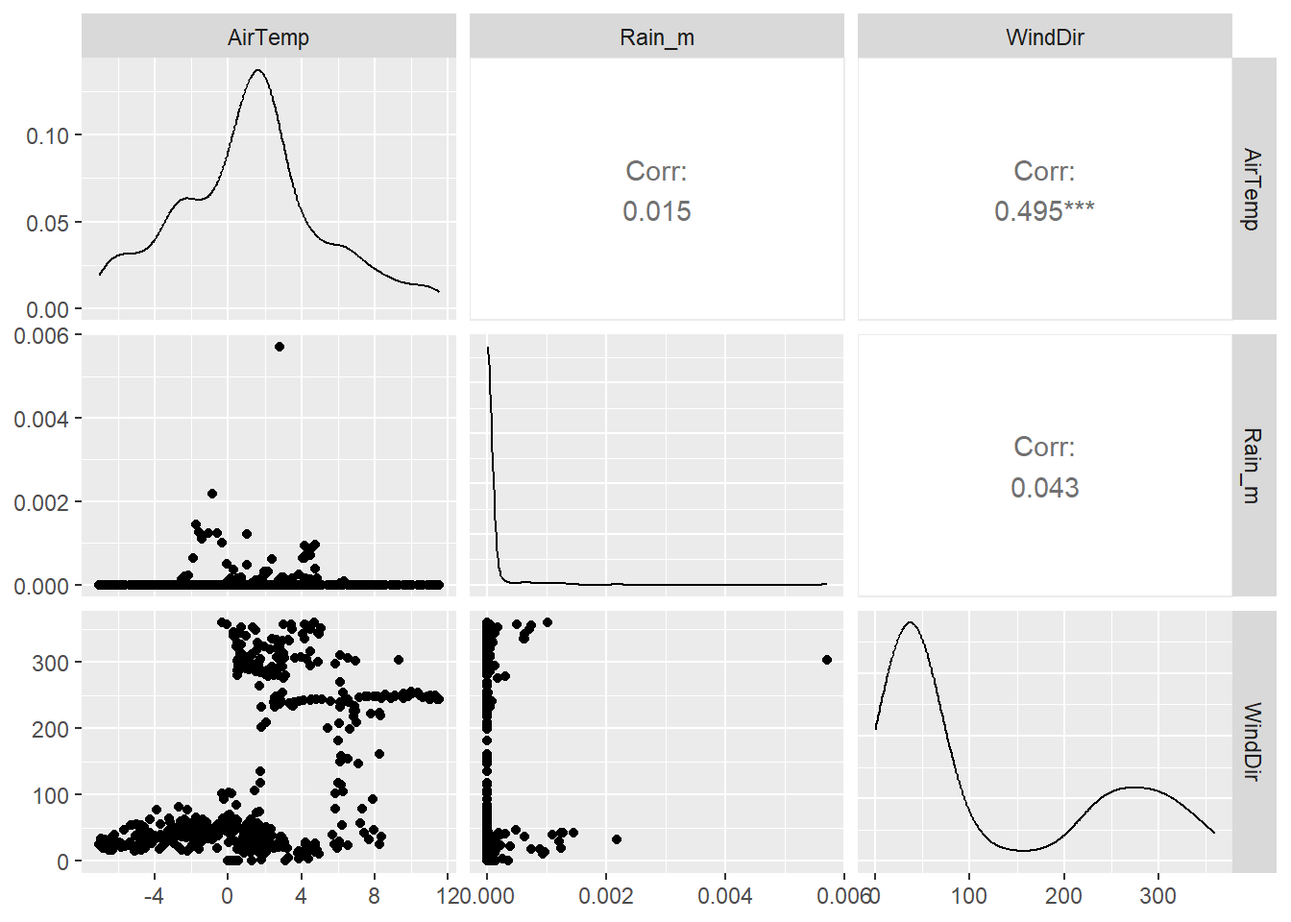
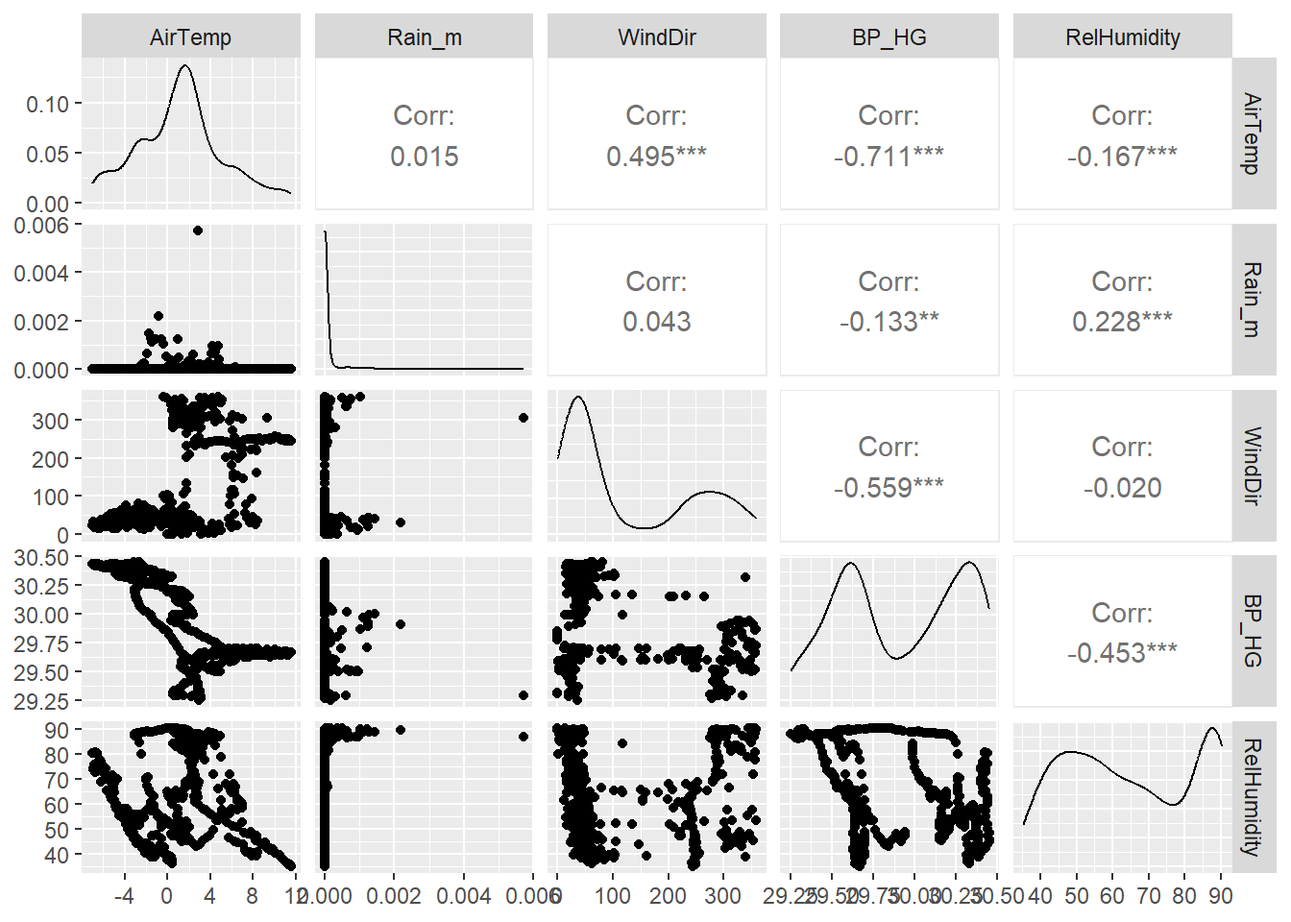
1 hw commit

diff --git a/docs/Markdown/Barnett_Correlation.html b/docs/Markdown/Barnett_Correlation.html
@@ -98,95 +98,30 @@ pre > code.sourceCode > span > a:first-child::before { text-decoration: underlin
 
 <section id="question-1" class="level2">
 <h2 class="anchored" data-anchor-id="question-1">Question 1</h2>
+<p>Look up the library GGally; it has a function named ggpairs(). Use that function to plot the atmospheric data from the Rice Rivers Center for the samples collected from 10 February to 15 February.</p>
 <div class="cell">
-<div class="sourceCode cell-code" id="cb1"><pre class="sourceCode r code-with-copy"><code class="sourceCode r"><span id="cb1-1"><a href="#cb1-1" aria-hidden="true" tabindex="-1"></a><span class="fu">library</span>(tidyverse)</span></code><button title="Copy to Clipboard" class="code-copy-button"><i class="bi"></i></button></pre></div>
-<div class="cell-output cell-output-stderr">
-<pre><code>Warning: package 'ggplot2' was built under R version 4.3.3</code></pre>
-</div>
-<div class="cell-output cell-output-stderr">
-<pre><code>Warning: package 'tidyr' was built under R version 4.3.3</code></pre>
-</div>
-<div class="cell-output cell-output-stderr">
-<pre><code>Warning: package 'readr' was built under R version 4.3.3</code></pre>
-</div>
-<div class="cell-output cell-output-stderr">
-<pre><code>Warning: package 'dplyr' was built under R version 4.3.3</code></pre>
-</div>
-<div class="cell-output cell-output-stderr">
-<pre><code>Warning: package 'stringr' was built under R version 4.3.3</code></pre>
-</div>
-<div class="cell-output cell-output-stderr">
-<pre><code>Warning: package 'forcats' was built under R version 4.3.3</code></pre>
-</div>
-<div class="cell-output cell-output-stderr">
-<pre><code>Warning: package 'lubridate' was built under R version 4.3.3</code></pre>
-</div>
-<div class="cell-output cell-output-stderr">
-<pre><code>── Attaching core tidyverse packages ──────────────────────── tidyverse 2.0.0 ──
-✔ dplyr     1.1.4     ✔ readr     2.1.5
-✔ forcats   1.0.0     ✔ stringr   1.5.1
-✔ ggplot2   3.5.1     ✔ tibble    3.2.1
-✔ lubridate 1.9.3     ✔ tidyr     1.3.1
-✔ purrr     1.0.2     
-── Conflicts ────────────────────────────────────────── tidyverse_conflicts() ──
-✖ dplyr::filter() masks stats::filter()
-✖ dplyr::lag()    masks stats::lag()
-ℹ Use the conflicted package (&lt;http://conflicted.r-lib.org/&gt;) to force all conflicts to become errors</code></pre>
-</div>
-<div class="sourceCode cell-code" id="cb10"><pre class="sourceCode r code-with-copy"><code class="sourceCode r"><span id="cb10-1"><a href="#cb10-1" aria-hidden="true" tabindex="-1"></a><span class="fu">library</span>(ggplot2)</span>
-<span id="cb10-2"><a href="#cb10-2" aria-hidden="true" tabindex="-1"></a></span>
-<span id="cb10-3"><a href="#cb10-3" aria-hidden="true" tabindex="-1"></a><span class="fu">library</span>(GGally)</span></code><button title="Copy to Clipboard" class="code-copy-button"><i class="bi"></i></button></pre></div>
-<div class="cell-output cell-output-stderr">
-<pre><code>Warning: package 'GGally' was built under R version 4.3.3</code></pre>
-</div>
-<div class="cell-output cell-output-stderr">
-<pre><code>Registered S3 method overwritten by 'GGally':
-  method from   
-  +.gg   ggplot2</code></pre>
-</div>
-<div class="sourceCode cell-code" id="cb13"><pre class="sourceCode r code-with-copy"><code class="sourceCode r"><span id="cb13-1"><a href="#cb13-1" aria-hidden="true" tabindex="-1"></a><span class="fu">library</span>(lubridate)</span>
-<span id="cb13-2"><a href="#cb13-2" aria-hidden="true" tabindex="-1"></a></span>
-<span id="cb13-3"><a href="#cb13-3" aria-hidden="true" tabindex="-1"></a><span class="fu">source</span>(<span class="st">"get_rice_data.R"</span>)</span>
-<span id="cb13-4"><a href="#cb13-4" aria-hidden="true" tabindex="-1"></a></span>
-<span id="cb13-5"><a href="#cb13-5" aria-hidden="true" tabindex="-1"></a>data <span class="ot">&lt;-</span> <span class="fu">getRiceData</span>()</span></code><button title="Copy to Clipboard" class="code-copy-button"><i class="bi"></i></button></pre></div>
-<div class="cell-output cell-output-stderr">
-<pre><code>Warning: package 'knitr' was built under R version 4.3.3</code></pre>
-</div>
-<div class="cell-output cell-output-stderr">
-<pre><code>Warning: package 'kableExtra' was built under R version 4.3.3</code></pre>
-</div>
-<div class="cell-output cell-output-stderr">
-<pre><code>
-Attaching package: 'kableExtra'
-
-The following object is masked from 'package:dplyr':
-
-    group_rows
-
-Rows: 8199 Columns: 23── Column specification ────────────────────────────────────────────────────────
-Delimiter: ","
-chr  (1): DateTime
-dbl (22): RecordID, PAR, WindSpeed_mph, WindDir, AirTempF, RelHumidity, BP_H...
-ℹ Use `spec()` to retrieve the full column specification for this data.
-ℹ Specify the column types or set `show_col_types = FALSE` to quiet this message.</code></pre>
-</div>
+<div class="sourceCode cell-code" id="cb1"><pre class="sourceCode r code-with-copy"><code class="sourceCode r"><span id="cb1-1"><a href="#cb1-1" aria-hidden="true" tabindex="-1"></a><span class="fu">library</span>(tidyverse)</span>
+<span id="cb1-2"><a href="#cb1-2" aria-hidden="true" tabindex="-1"></a></span>
+<span id="cb1-3"><a href="#cb1-3" aria-hidden="true" tabindex="-1"></a><span class="fu">library</span>(ggplot2)</span>
+<span id="cb1-4"><a href="#cb1-4" aria-hidden="true" tabindex="-1"></a></span>
+<span id="cb1-5"><a href="#cb1-5" aria-hidden="true" tabindex="-1"></a><span class="fu">library</span>(GGally)</span>
+<span id="cb1-6"><a href="#cb1-6" aria-hidden="true" tabindex="-1"></a></span>
+<span id="cb1-7"><a href="#cb1-7" aria-hidden="true" tabindex="-1"></a><span class="fu">library</span>(lubridate)</span>
+<span id="cb1-8"><a href="#cb1-8" aria-hidden="true" tabindex="-1"></a></span>
+<span id="cb1-9"><a href="#cb1-9" aria-hidden="true" tabindex="-1"></a><span class="fu">source</span>(<span class="st">"get_rice_data.R"</span>)</span>
+<span id="cb1-10"><a href="#cb1-10" aria-hidden="true" tabindex="-1"></a></span>
+<span id="cb1-11"><a href="#cb1-11" aria-hidden="true" tabindex="-1"></a>data <span class="ot">&lt;-</span> <span class="fu">getRiceData</span>()</span></code><button title="Copy to Clipboard" class="code-copy-button"><i class="bi"></i></button></pre></div>
 </div>
 <div class="cell">
-<div class="sourceCode cell-code" id="cb17"><pre class="sourceCode r code-with-copy"><code class="sourceCode r"><span id="cb17-1"><a href="#cb17-1" aria-hidden="true" tabindex="-1"></a><span class="co"># Convert Date column to datetime format</span></span>
-<span id="cb17-2"><a href="#cb17-2" aria-hidden="true" tabindex="-1"></a>data<span class="sc">$</span>Date <span class="ot">&lt;-</span> <span class="fu">ymd_hms</span>(data<span class="sc">$</span>Date)</span></code><button title="Copy to Clipboard" class="code-copy-button"><i class="bi"></i></button></pre></div>
-<div class="cell-output cell-output-stderr">
-<pre><code>Warning: 86 failed to parse.</code></pre>
-</div>
-<div class="sourceCode cell-code" id="cb19"><pre class="sourceCode r code-with-copy"><code class="sourceCode r"><span id="cb19-1"><a href="#cb19-1" aria-hidden="true" tabindex="-1"></a><span class="co"># Filter data between Feb 10-15 and select specific columns</span></span>
-<span id="cb19-2"><a href="#cb19-2" aria-hidden="true" tabindex="-1"></a>atmdf <span class="ot">&lt;-</span> data <span class="sc">|&gt;</span></span>
-<span id="cb19-3"><a href="#cb19-3" aria-hidden="true" tabindex="-1"></a>  <span class="fu">filter</span>(<span class="fu">month</span>(Date) <span class="sc">==</span> <span class="dv">2</span> <span class="sc">&amp;</span> <span class="fu">day</span>(Date) <span class="sc">&gt;=</span> <span class="dv">10</span> <span class="sc">&amp;</span> <span class="fu">day</span>(Date) <span class="sc">&lt;=</span> <span class="dv">15</span>) <span class="sc">|&gt;</span></span>
-<span id="cb19-4"><a href="#cb19-4" aria-hidden="true" tabindex="-1"></a>  <span class="fu">select</span>(AirTemp, Rain_m, WindDir)</span>
-<span id="cb19-5"><a href="#cb19-5" aria-hidden="true" tabindex="-1"></a></span>
-<span id="cb19-6"><a href="#cb19-6" aria-hidden="true" tabindex="-1"></a><span class="co"># Create ggpairs plot</span></span>
-<span id="cb19-7"><a href="#cb19-7" aria-hidden="true" tabindex="-1"></a><span class="fu">ggpairs</span>(</span>
-<span id="cb19-8"><a href="#cb19-8" aria-hidden="true" tabindex="-1"></a>  <span class="at">data =</span> atmdf,</span>
-<span id="cb19-9"><a href="#cb19-9" aria-hidden="true" tabindex="-1"></a>  <span class="at">columns =</span> <span class="dv">1</span><span class="sc">:</span><span class="fu">ncol</span>(atmdf)  <span class="co"># Select all columns from atmdf</span></span>
-<span id="cb19-10"><a href="#cb19-10" aria-hidden="true" tabindex="-1"></a>)</span></code><button title="Copy to Clipboard" class="code-copy-button"><i class="bi"></i></button></pre></div>
+<div class="sourceCode cell-code" id="cb2"><pre class="sourceCode r code-with-copy"><code class="sourceCode r"><span id="cb2-1"><a href="#cb2-1" aria-hidden="true" tabindex="-1"></a>data<span class="sc">$</span>Date <span class="ot">&lt;-</span> <span class="fu">ymd_hms</span>(data<span class="sc">$</span>Date)</span>
+<span id="cb2-2"><a href="#cb2-2" aria-hidden="true" tabindex="-1"></a></span>
+<span id="cb2-3"><a href="#cb2-3" aria-hidden="true" tabindex="-1"></a>atmdf <span class="ot">&lt;-</span> data <span class="sc">|&gt;</span></span>
+<span id="cb2-4"><a href="#cb2-4" aria-hidden="true" tabindex="-1"></a>  <span class="fu">filter</span>(<span class="fu">month</span>(Date) <span class="sc">==</span> <span class="dv">2</span> <span class="sc">&amp;</span> <span class="fu">day</span>(Date) <span class="sc">&gt;=</span> <span class="dv">10</span> <span class="sc">&amp;</span> <span class="fu">day</span>(Date) <span class="sc">&lt;=</span> <span class="dv">15</span>) <span class="sc">|&gt;</span></span>
+<span id="cb2-5"><a href="#cb2-5" aria-hidden="true" tabindex="-1"></a>  <span class="fu">select</span>(AirTemp, Rain_m, WindDir, BP_HG, RelHumidity)</span>
+<span id="cb2-6"><a href="#cb2-6" aria-hidden="true" tabindex="-1"></a></span>
+<span id="cb2-7"><a href="#cb2-7" aria-hidden="true" tabindex="-1"></a><span class="fu">ggpairs</span>(</span>
+<span id="cb2-8"><a href="#cb2-8" aria-hidden="true" tabindex="-1"></a>  <span class="at">data =</span> atmdf,</span>
+<span id="cb2-9"><a href="#cb2-9" aria-hidden="true" tabindex="-1"></a>  <span class="at">columns =</span> <span class="dv">1</span><span class="sc">:</span><span class="fu">ncol</span>(atmdf)) </span></code><button title="Copy to Clipboard" class="code-copy-button"><i class="bi"></i></button></pre></div>
 <div class="cell-output-display">
 <div>
 <figure class="figure">
@@ -194,17 +129,144 @@ dbl (22): RecordID, PAR, WindSpeed_mph, WindDir, AirTempF, RelHumidity, BP_H...
 </figure>
 </div>
 </div>
-<div class="sourceCode cell-code" id="cb20"><pre class="sourceCode r code-with-copy"><code class="sourceCode r"><span id="cb20-1"><a href="#cb20-1" aria-hidden="true" tabindex="-1"></a><span class="co"># Step 2: Plot Wind Direction over the Date-Time variable</span></span>
-<span id="cb20-2"><a href="#cb20-2" aria-hidden="true" tabindex="-1"></a><span class="co"># plot(atmdf$Date, df$Air_temperature, </span></span>
-<span id="cb20-3"><a href="#cb20-3" aria-hidden="true" tabindex="-1"></a><span class="co">#      type = "p",  # Line with points</span></span>
-<span id="cb20-4"><a href="#cb20-4" aria-hidden="true" tabindex="-1"></a><span class="co">#      xlab = "Date and Time", </span></span>
-<span id="cb20-5"><a href="#cb20-5" aria-hidden="true" tabindex="-1"></a><span class="co">#      ylab = "Air Temperature (C)", </span></span>
-<span id="cb20-6"><a href="#cb20-6" aria-hidden="true" tabindex="-1"></a><span class="co">#      main = "Air Temperature During February 10-15",</span></span>
-<span id="cb20-7"><a href="#cb20-7" aria-hidden="true" tabindex="-1"></a><span class="co">#      pch = 19)  # Points</span></span></code><button title="Copy to Clipboard" class="code-copy-button"><i class="bi"></i></button></pre></div>
 </div>
 </section>
 <section id="question-2" class="level2">
 <h2 class="anchored" data-anchor-id="question-2">Question 2</h2>
+<p>For those atmospheric data, which pair of variables has the strongest correlation? What is the 95% confidence interval on that correlation coefficient?</p>
+<div class="cell">
+<div class="sourceCode cell-code" id="cb3"><pre class="sourceCode r code-with-copy"><code class="sourceCode r"><span id="cb3-1"><a href="#cb3-1" aria-hidden="true" tabindex="-1"></a><span class="co"># Calculate correlation matrix for the variables in atmdf</span></span>
+<span id="cb3-2"><a href="#cb3-2" aria-hidden="true" tabindex="-1"></a>cor_matrix <span class="ot">&lt;-</span> <span class="fu">cor</span>(atmdf, <span class="at">use =</span> <span class="st">"complete.obs"</span>)</span>
+<span id="cb3-3"><a href="#cb3-3" aria-hidden="true" tabindex="-1"></a></span>
+<span id="cb3-4"><a href="#cb3-4" aria-hidden="true" tabindex="-1"></a><span class="co"># Convert the correlation matrix to a data frame for easier identification of the strongest correlation</span></span>
+<span id="cb3-5"><a href="#cb3-5" aria-hidden="true" tabindex="-1"></a><span class="fu">library</span>(dplyr)</span>
+<span id="cb3-6"><a href="#cb3-6" aria-hidden="true" tabindex="-1"></a>cor_df <span class="ot">&lt;-</span> <span class="fu">as.data.frame</span>(<span class="fu">as.table</span>(cor_matrix)) <span class="sc">%&gt;%</span></span>
+<span id="cb3-7"><a href="#cb3-7" aria-hidden="true" tabindex="-1"></a>  <span class="fu">filter</span>(Var1 <span class="sc">!=</span> Var2) <span class="sc">%&gt;%</span> <span class="co"># Remove diagonal (self-correlations)</span></span>
+<span id="cb3-8"><a href="#cb3-8" aria-hidden="true" tabindex="-1"></a>  <span class="fu">mutate</span>(<span class="at">abs_correlation =</span> <span class="fu">abs</span>(Freq)) <span class="sc">%&gt;%</span> <span class="co"># Take absolute value of correlations</span></span>
+<span id="cb3-9"><a href="#cb3-9" aria-hidden="true" tabindex="-1"></a>  <span class="fu">arrange</span>(<span class="fu">desc</span>(abs_correlation)) <span class="co"># Sort by absolute correlation</span></span>
+<span id="cb3-10"><a href="#cb3-10" aria-hidden="true" tabindex="-1"></a></span>
+<span id="cb3-11"><a href="#cb3-11" aria-hidden="true" tabindex="-1"></a><span class="co"># Identify the pair with the strongest correlation</span></span>
+<span id="cb3-12"><a href="#cb3-12" aria-hidden="true" tabindex="-1"></a>strongest_pair <span class="ot">&lt;-</span> cor_df[<span class="dv">1</span>, <span class="fu">c</span>(<span class="st">"Var1"</span>, <span class="st">"Var2"</span>)]</span>
+<span id="cb3-13"><a href="#cb3-13" aria-hidden="true" tabindex="-1"></a>strongest_corr_value <span class="ot">&lt;-</span> cor_df[<span class="dv">1</span>, <span class="st">"Freq"</span>]</span>
+<span id="cb3-14"><a href="#cb3-14" aria-hidden="true" tabindex="-1"></a></span>
+<span id="cb3-15"><a href="#cb3-15" aria-hidden="true" tabindex="-1"></a><span class="co"># Calculate 95% confidence interval for the strongest correlation</span></span>
+<span id="cb3-16"><a href="#cb3-16" aria-hidden="true" tabindex="-1"></a>cor_test_result <span class="ot">&lt;-</span> <span class="fu">cor.test</span>(atmdf[[strongest_pair<span class="sc">$</span>Var1]], atmdf[[strongest_pair<span class="sc">$</span>Var2]])</span>
+<span id="cb3-17"><a href="#cb3-17" aria-hidden="true" tabindex="-1"></a></span>
+<span id="cb3-18"><a href="#cb3-18" aria-hidden="true" tabindex="-1"></a><span class="co"># Print the results</span></span>
+<span id="cb3-19"><a href="#cb3-19" aria-hidden="true" tabindex="-1"></a><span class="fu">cat</span>(<span class="st">"The strongest correlation is between"</span>, strongest_pair<span class="sc">$</span>Var1, <span class="st">"and"</span>, strongest_pair<span class="sc">$</span>Var2, <span class="st">"</span><span class="sc">\n</span><span class="st">"</span>)</span></code><button title="Copy to Clipboard" class="code-copy-button"><i class="bi"></i></button></pre></div>
+<div class="cell-output cell-output-stdout">
+<pre><code>The strongest correlation is between 4 and 1 </code></pre>
+</div>
+<div class="sourceCode cell-code" id="cb5"><pre class="sourceCode r code-with-copy"><code class="sourceCode r"><span id="cb5-1"><a href="#cb5-1" aria-hidden="true" tabindex="-1"></a><span class="fu">cat</span>(<span class="st">"Correlation coefficient:"</span>, strongest_corr_value, <span class="st">"</span><span class="sc">\n</span><span class="st">"</span>)</span></code><button title="Copy to Clipboard" class="code-copy-button"><i class="bi"></i></button></pre></div>
+<div class="cell-output cell-output-stdout">
+<pre><code>Correlation coefficient: -0.7111976 </code></pre>
+</div>
+<div class="sourceCode cell-code" id="cb7"><pre class="sourceCode r code-with-copy"><code class="sourceCode r"><span id="cb7-1"><a href="#cb7-1" aria-hidden="true" tabindex="-1"></a><span class="fu">cat</span>(<span class="st">"95% confidence interval:"</span>, cor_test_result<span class="sc">$</span>conf.int[<span class="dv">1</span>], <span class="st">"to"</span>, cor_test_result<span class="sc">$</span>conf.int[<span class="dv">2</span>], <span class="st">"</span><span class="sc">\n</span><span class="st">"</span>)</span></code><button title="Copy to Clipboard" class="code-copy-button"><i class="bi"></i></button></pre></div>
+<div class="cell-output cell-output-stdout">
+<pre><code>95% confidence interval: -0.7495441 to -0.6680938 </code></pre>
+</div>
+</div>
+</section>
+<section id="question-3" class="level2">
+<h2 class="anchored" data-anchor-id="question-3">Question 3</h2>
+<p>Using the first 40 observations in air temperature and barometric pressure from the Rice Center data set, determine if they are individually distributed as normal random variables.</p>
+<div class="cell">
+<div class="sourceCode cell-code" id="cb9"><pre class="sourceCode r code-with-copy"><code class="sourceCode r"><span id="cb9-1"><a href="#cb9-1" aria-hidden="true" tabindex="-1"></a><span class="co"># Subset the first 40 observations of AirTemp and BP_HG</span></span>
+<span id="cb9-2"><a href="#cb9-2" aria-hidden="true" tabindex="-1"></a>sample_data <span class="ot">&lt;-</span> data[<span class="dv">1</span><span class="sc">:</span><span class="dv">40</span>, ]</span>
+<span id="cb9-3"><a href="#cb9-3" aria-hidden="true" tabindex="-1"></a></span>
+<span id="cb9-4"><a href="#cb9-4" aria-hidden="true" tabindex="-1"></a><span class="co"># Visual check with Q-Q plots</span></span>
+<span id="cb9-5"><a href="#cb9-5" aria-hidden="true" tabindex="-1"></a><span class="fu">par</span>(<span class="at">mfrow =</span> <span class="fu">c</span>(<span class="dv">1</span>, <span class="dv">2</span>))  <span class="co"># Set up a 1x2 plot layout</span></span>
+<span id="cb9-6"><a href="#cb9-6" aria-hidden="true" tabindex="-1"></a><span class="fu">qqnorm</span>(sample_data<span class="sc">$</span>AirTemp, <span class="at">main =</span> <span class="st">"Q-Q Plot of AirTemp"</span>)</span>
+<span id="cb9-7"><a href="#cb9-7" aria-hidden="true" tabindex="-1"></a><span class="fu">qqline</span>(sample_data<span class="sc">$</span>AirTemp, <span class="at">col =</span> <span class="st">"red"</span>)</span>
+<span id="cb9-8"><a href="#cb9-8" aria-hidden="true" tabindex="-1"></a></span>
+<span id="cb9-9"><a href="#cb9-9" aria-hidden="true" tabindex="-1"></a><span class="fu">qqnorm</span>(sample_data<span class="sc">$</span>BP_HG, <span class="at">main =</span> <span class="st">"Q-Q Plot of BP_HG"</span>)</span>
+<span id="cb9-10"><a href="#cb9-10" aria-hidden="true" tabindex="-1"></a><span class="fu">qqline</span>(sample_data<span class="sc">$</span>BP_HG, <span class="at">col =</span> <span class="st">"red"</span>)</span></code><button title="Copy to Clipboard" class="code-copy-button"><i class="bi"></i></button></pre></div>
+<div class="cell-output-display">
+<div>
+<figure class="figure">
+<p><img src="Barnett_Correlation_files/figure-html/unnamed-chunk-4-1.png" class="img-fluid figure-img" width="672"></p>
+</figure>
+</div>
+</div>
+<div class="sourceCode cell-code" id="cb10"><pre class="sourceCode r code-with-copy"><code class="sourceCode r"><span id="cb10-1"><a href="#cb10-1" aria-hidden="true" tabindex="-1"></a><span class="co"># Statistical check with Shapiro-Wilk test</span></span>
+<span id="cb10-2"><a href="#cb10-2" aria-hidden="true" tabindex="-1"></a>shapiro_test_AirTemp <span class="ot">&lt;-</span> <span class="fu">shapiro.test</span>(sample_data<span class="sc">$</span>AirTemp)</span>
+<span id="cb10-3"><a href="#cb10-3" aria-hidden="true" tabindex="-1"></a>shapiro_test_BP_HG <span class="ot">&lt;-</span> <span class="fu">shapiro.test</span>(sample_data<span class="sc">$</span>BP_HG)</span>
+<span id="cb10-4"><a href="#cb10-4" aria-hidden="true" tabindex="-1"></a></span>
+<span id="cb10-5"><a href="#cb10-5" aria-hidden="true" tabindex="-1"></a><span class="co"># Print Shapiro-Wilk test results</span></span>
+<span id="cb10-6"><a href="#cb10-6" aria-hidden="true" tabindex="-1"></a><span class="fu">cat</span>(<span class="st">"Shapiro-Wilk test for AirTemp:</span><span class="sc">\n</span><span class="st">"</span>)</span></code><button title="Copy to Clipboard" class="code-copy-button"><i class="bi"></i></button></pre></div>
+<div class="cell-output cell-output-stdout">
+<pre><code>Shapiro-Wilk test for AirTemp:</code></pre>
+</div>
+<div class="sourceCode cell-code" id="cb12"><pre class="sourceCode r code-with-copy"><code class="sourceCode r"><span id="cb12-1"><a href="#cb12-1" aria-hidden="true" tabindex="-1"></a><span class="fu">print</span>(shapiro_test_AirTemp)</span></code><button title="Copy to Clipboard" class="code-copy-button"><i class="bi"></i></button></pre></div>
+<div class="cell-output cell-output-stdout">
+<pre><code>
+    Shapiro-Wilk normality test
+
+data:  sample_data$AirTemp
+W = 0.96246, p-value = 0.2031</code></pre>
+</div>
+<div class="sourceCode cell-code" id="cb14"><pre class="sourceCode r code-with-copy"><code class="sourceCode r"><span id="cb14-1"><a href="#cb14-1" aria-hidden="true" tabindex="-1"></a><span class="fu">cat</span>(<span class="st">"</span><span class="sc">\n</span><span class="st">Shapiro-Wilk test for BP_HG:</span><span class="sc">\n</span><span class="st">"</span>)</span></code><button title="Copy to Clipboard" class="code-copy-button"><i class="bi"></i></button></pre></div>
+<div class="cell-output cell-output-stdout">
+<pre><code>
+Shapiro-Wilk test for BP_HG:</code></pre>
+</div>
+<div class="sourceCode cell-code" id="cb16"><pre class="sourceCode r code-with-copy"><code class="sourceCode r"><span id="cb16-1"><a href="#cb16-1" aria-hidden="true" tabindex="-1"></a><span class="fu">print</span>(shapiro_test_BP_HG)</span></code><button title="Copy to Clipboard" class="code-copy-button"><i class="bi"></i></button></pre></div>
+<div class="cell-output cell-output-stdout">
+<pre><code>
+    Shapiro-Wilk normality test
+
+data:  sample_data$BP_HG
+W = 0.89733, p-value = 0.001601</code></pre>
+</div>
+</div>
+<p>The Shapiro-Wilk test indicates that AirTemp is likely normally distributed (p = 0.2031), as we do not reject the null hypothesis of normality. However, BP_HG is not normally distributed (p = 0.0016), as the test shows a significant deviation from normality. Thus, normality-based analyses may be appropriate for AirTemp but not for BP_HG.</p>
+</section>
+<section id="question-4" class="level2">
+<h2 class="anchored" data-anchor-id="question-4">Question 4</h2>
+<p>Given your findings in the last question, what kind of correlation statistic would be most appropriate for estimating the correlation between this subset of data?</p>
+<p>Given that AirTemp appears to be normally distributed but BP_HG does not, a non-parametric correlation statistic would be most appropriate. Specifically, the Spearman rank correlation or Kendall’s tau would be suitable choices, as they do not assume normality and are robust to non-normal distributions.</p>
+</section>
+<section id="question-5" class="level2">
+<h2 class="anchored" data-anchor-id="question-5">Question 5</h2>
+<p>Look at a qqnorm() plot of the barometric pressure data you used in the previous example. Is there something that “looks” odd with these data? Explain why those data are the way they are.</p>
+<p>In the Q-Q plot for BP_HG (barometric pressure data), there’s an unusual pattern where all the points fall on a straight vertical line, indicating that all values are nearly identical or have very little variability. This is unusual because, in typical data, you would expect some spread in the quantiles.</p>
+<p>This pattern suggests that the BP_HG data might be nearly constant, possibly due to measurement limitations, a data entry error, or because it was recorded during a period with very stable atmospheric conditions, leading to almost identical barometric pressure readings. This lack of variability is likely why the Shapiro-Wilk test flagged BP_HG as non-normal—it essentially behaves like a single value, which does not conform to a normal distribution.</p>
+</section>
+<section id="question-6" class="level2">
+<h2 class="anchored" data-anchor-id="question-6">Question 6</h2>
+<p>Using a permutation approach, define the distribution of correlation values between the variables in #3, assuming that the NULL hypothesis is true. Plot these as a histogram and include the observed correlation.</p>
+<div class="cell">
+<div class="sourceCode cell-code" id="cb18"><pre class="sourceCode r code-with-copy"><code class="sourceCode r"><span id="cb18-1"><a href="#cb18-1" aria-hidden="true" tabindex="-1"></a><span class="fu">set.seed</span>(<span class="dv">42</span>)  <span class="co"># For reproducibility</span></span>
+<span id="cb18-2"><a href="#cb18-2" aria-hidden="true" tabindex="-1"></a></span>
+<span id="cb18-3"><a href="#cb18-3" aria-hidden="true" tabindex="-1"></a><span class="co"># Step 1: Calculate the observed correlation</span></span>
+<span id="cb18-4"><a href="#cb18-4" aria-hidden="true" tabindex="-1"></a>observed_corr <span class="ot">&lt;-</span> <span class="fu">cor</span>(sample_data<span class="sc">$</span>AirTemp, sample_data<span class="sc">$</span>BP_HG, <span class="at">method =</span> <span class="st">"spearman"</span>)</span>
+<span id="cb18-5"><a href="#cb18-5" aria-hidden="true" tabindex="-1"></a></span>
+<span id="cb18-6"><a href="#cb18-6" aria-hidden="true" tabindex="-1"></a><span class="co"># Step 2-4: Permutation test</span></span>
+<span id="cb18-7"><a href="#cb18-7" aria-hidden="true" tabindex="-1"></a>n_permutations <span class="ot">&lt;-</span> <span class="dv">1000</span></span>
+<span id="cb18-8"><a href="#cb18-8" aria-hidden="true" tabindex="-1"></a>permuted_corrs <span class="ot">&lt;-</span> <span class="fu">numeric</span>(n_permutations)</span>
+<span id="cb18-9"><a href="#cb18-9" aria-hidden="true" tabindex="-1"></a></span>
+<span id="cb18-10"><a href="#cb18-10" aria-hidden="true" tabindex="-1"></a><span class="cf">for</span> (i <span class="cf">in</span> <span class="dv">1</span><span class="sc">:</span>n_permutations) {</span>
+<span id="cb18-11"><a href="#cb18-11" aria-hidden="true" tabindex="-1"></a>  <span class="co"># Permute BP_HG values</span></span>
+<span id="cb18-12"><a href="#cb18-12" aria-hidden="true" tabindex="-1"></a>  permuted_BP_HG <span class="ot">&lt;-</span> <span class="fu">sample</span>(sample_data<span class="sc">$</span>BP_HG)</span>
+<span id="cb18-13"><a href="#cb18-13" aria-hidden="true" tabindex="-1"></a>  </span>
+<span id="cb18-14"><a href="#cb18-14" aria-hidden="true" tabindex="-1"></a>  <span class="co"># Calculate the correlation with AirTemp</span></span>
+<span id="cb18-15"><a href="#cb18-15" aria-hidden="true" tabindex="-1"></a>  permuted_corrs[i] <span class="ot">&lt;-</span> <span class="fu">cor</span>(sample_data<span class="sc">$</span>AirTemp, permuted_BP_HG, <span class="at">method =</span> <span class="st">"spearman"</span>)</span>
+<span id="cb18-16"><a href="#cb18-16" aria-hidden="true" tabindex="-1"></a>}</span>
+<span id="cb18-17"><a href="#cb18-17" aria-hidden="true" tabindex="-1"></a></span>
+<span id="cb18-18"><a href="#cb18-18" aria-hidden="true" tabindex="-1"></a><span class="co"># Step 5: Plot the distribution</span></span>
+<span id="cb18-19"><a href="#cb18-19" aria-hidden="true" tabindex="-1"></a><span class="fu">hist</span>(permuted_corrs, <span class="at">breaks =</span> <span class="dv">30</span>, <span class="at">main =</span> <span class="st">"Permutation Distribution of Correlation (Null Hypothesis)"</span>,</span>
+<span id="cb18-20"><a href="#cb18-20" aria-hidden="true" tabindex="-1"></a>     <span class="at">xlab =</span> <span class="st">"Correlation"</span>, <span class="at">xlim =</span> <span class="fu">range</span>(<span class="fu">c</span>(permuted_corrs, observed_corr)), <span class="at">col =</span> <span class="st">"lightblue"</span>, <span class="at">border =</span> <span class="st">"black"</span>)</span>
+<span id="cb18-21"><a href="#cb18-21" aria-hidden="true" tabindex="-1"></a><span class="fu">abline</span>(<span class="at">v =</span> observed_corr, <span class="at">col =</span> <span class="st">"red"</span>, <span class="at">lwd =</span> <span class="dv">2</span>, <span class="at">lty =</span> <span class="dv">2</span>)</span>
+<span id="cb18-22"><a href="#cb18-22" aria-hidden="true" tabindex="-1"></a><span class="fu">legend</span>(<span class="st">"topright"</span>, <span class="at">legend =</span> <span class="fu">paste</span>(<span class="st">"Observed Correlation ="</span>, <span class="fu">round</span>(observed_corr, <span class="dv">3</span>)),</span>
+<span id="cb18-23"><a href="#cb18-23" aria-hidden="true" tabindex="-1"></a>       <span class="at">col =</span> <span class="st">"red"</span>, <span class="at">lty =</span> <span class="dv">2</span>, <span class="at">lwd =</span> <span class="dv">2</span>)</span></code><button title="Copy to Clipboard" class="code-copy-button"><i class="bi"></i></button></pre></div>
+<div class="cell-output-display">
+<div>
+<figure class="figure">
+<p><img src="Barnett_Correlation_files/figure-html/unnamed-chunk-5-1.png" class="img-fluid figure-img" width="672"></p>
+</figure>
+</div>
+</div>
+</div>
 </section>
 
 </main>
